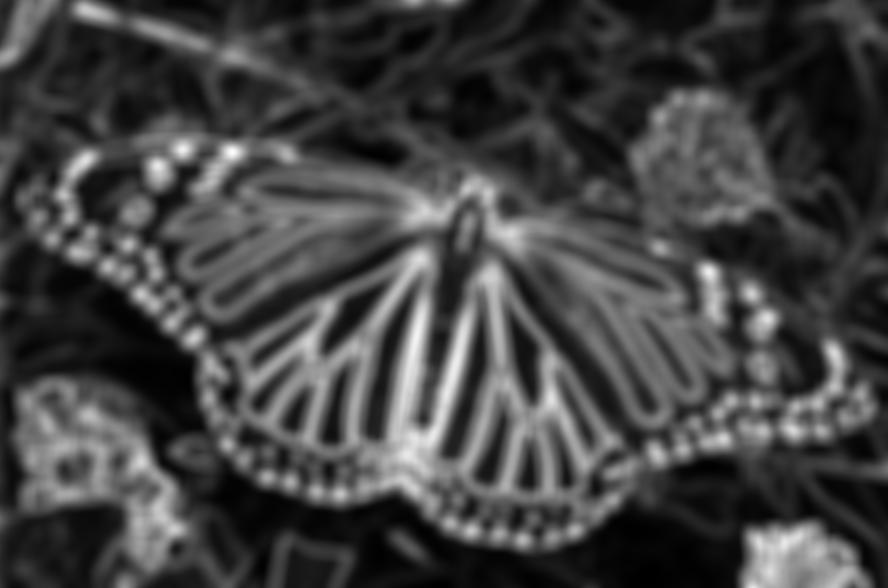
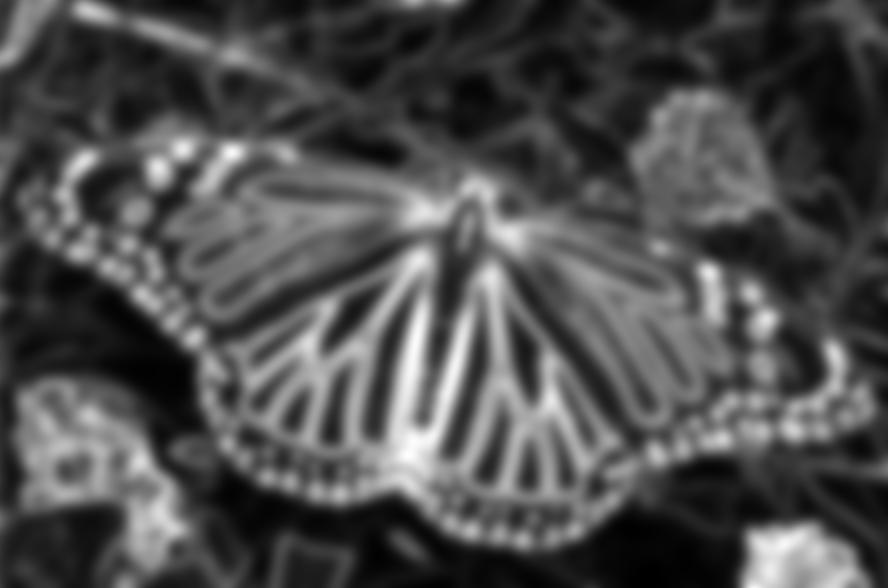
#2 fix gauss size kernel

diff --git a/filter/Kernels.cpp b/filter/Kernels.cpp
@@ -31,25 +31,25 @@ DoubleImage Kernels::GetIncreaseSharpness() {
 }
 
 DoubleImage Kernels::GetGauss(double sigma) {
-    int size = floor(3 * sigma);
-    auto matrix_gauss = vector<double>(size * size);
+    int size = 6 * static_cast<int>(sigma) + 1;
     int halfSize = size / 2;
+    auto matrix_gauss = vector<double>(size * size);
     double ss2 = 2 * sigma * sigma;
     double firstDrob = 1.0 / (M_PI * ss2);
-    double test_sum = 0.0;
+    double normalize = 0.0;
     int rowI = 0;
     for (int x = -halfSize; x <= halfSize; x++) {
         int columnI = 0;
         for (int y = -halfSize; y <= halfSize; y++) {
             double gauss = firstDrob * exp(-(x * x + y * y) / ss2);
             matrix_gauss[rowI * size + columnI++] = gauss;
-            test_sum += gauss;
+            normalize += gauss;
         }
         rowI++;
     }
     for (int x = -halfSize; x <= halfSize; x++)
         for (int y = -halfSize; y <= halfSize; y++)
-            matrix_gauss[(x + halfSize) * size + y + halfSize] /= test_sum;
+            matrix_gauss[(x + halfSize) * size + y + halfSize] /= normalize;
     return DoubleImage(matrix_gauss, size, size);
 }
 

diff --git a/demonstration/Lab1.h b/demonstration/Lab1.h
@@ -14,10 +14,10 @@ using namespace std;
 class Lab1 {
 public:
     static void work() {
-        testSobelOper("butterfly", ".jpg", Policies::COPY);
-        testSobelOper("girl", ".jpg", Policies::MIRROR);
-        testSobelOper("cat_dog", ".jpg", Policies::SYMMETRY);
-        testSobelOper("shrek", ".jpg", Policies::ZERO);
+//        testSobelOper("butterfly", ".jpg", Policies::COPY);
+//        testSobelOper("girl", ".jpg", Policies::MIRROR);
+//        testSobelOper("cat_dog", ".jpg", Policies::SYMMETRY);
+//        testSobelOper("shrek", ".jpg", Policies::ZERO);
         testGauss("butterfly", ".jpg", 1.3, Policies::SYMMETRY);
         testGauss("butterfly", ".jpg", 0.4, Policies::MIRROR);
         testGauss("butterfly", ".jpg", 5, Policies::COPY);
